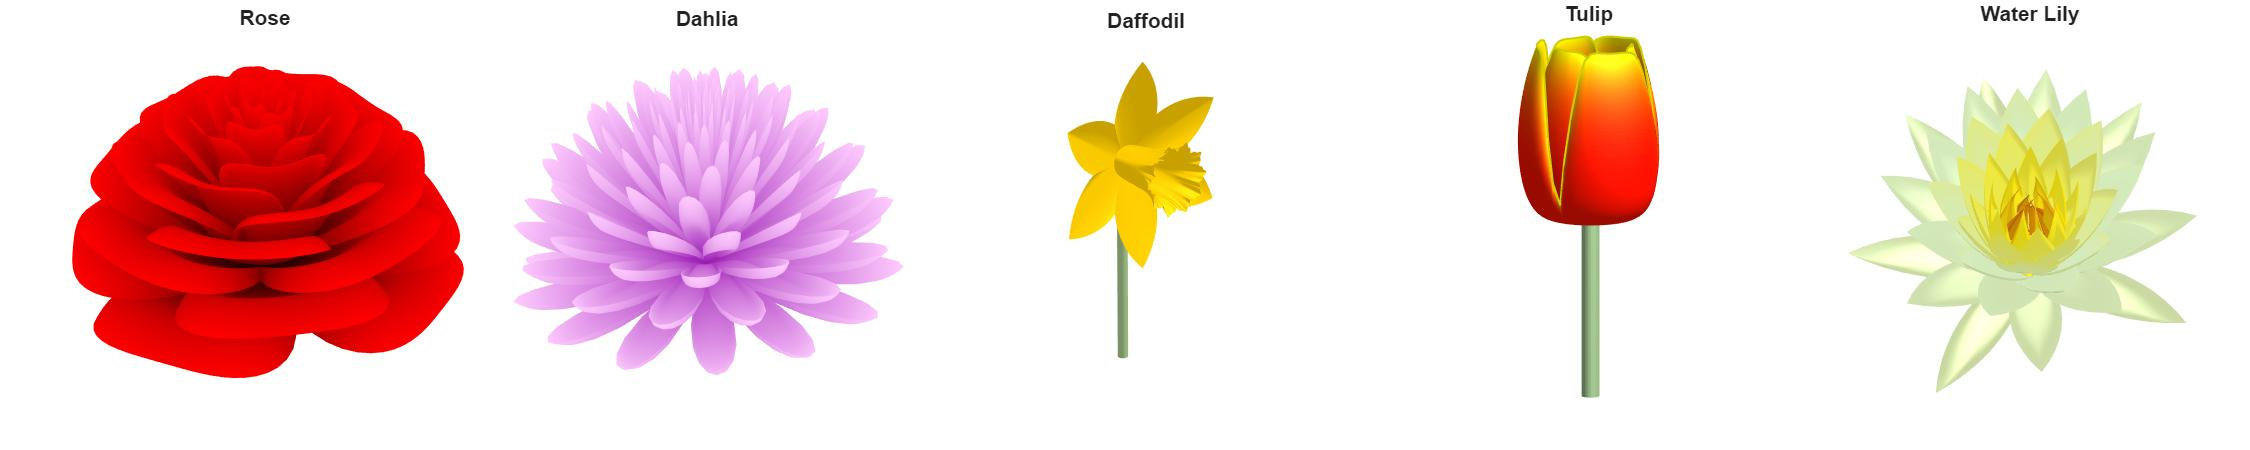
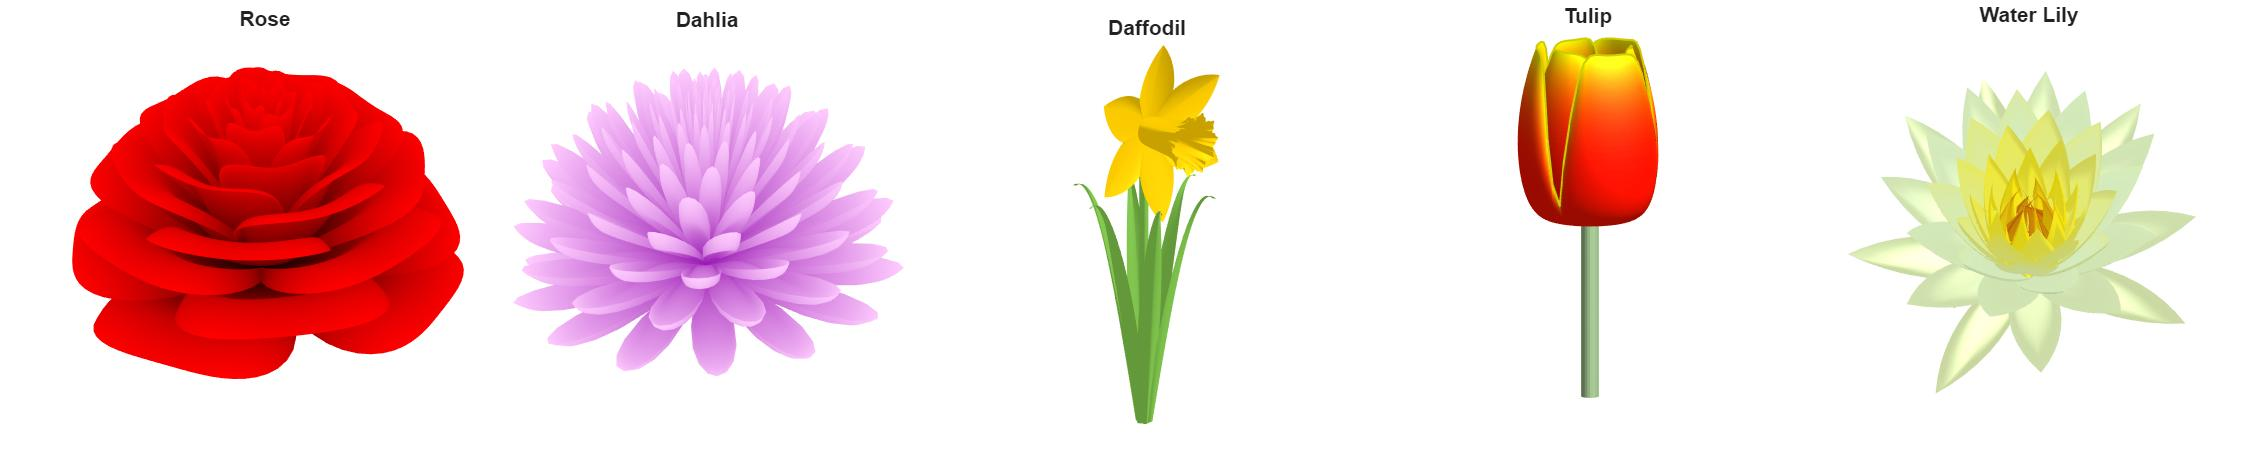
Update Daffodil to include leaves.

diff --git a/flowers/daffodil.m b/flowers/daffodil.m
@@ -1,13 +1,15 @@
-%% Plot an algorithmic daffodil
-
-%% Colors & Sizes
+%% Daffodil Colors & Sizes
 pc = '#faca00'; % petal color
-sc = '#97b580'; % stem color
+sc = '#7cbf4a'; % stem color
 np = 6; % number of petals.
 tr = .23; % Radius of trumpet
 nruf = 10; % number of trumpet ruffles
 sruf = .03; % size of trumpet ruffles
 sr = .05; % radius of the stem
+sh = 3.5; % Height of the stem
+ln = 6; % number of leaves
+lw = .3; % Leaf width
+lh = 2.8; % Height of a leaf
 
 %% Unit circle arrays
 n = np*50+1; % Theta resolution
@@ -32,11 +34,23 @@ surface(TR.*cospi(theta),r*tr*3.2,TR.*sinpi(theta),'FaceColor',pc,'EdgeColor','n
 
 %% Stem
 SR = sr .* ones(nr,1);
-surface(SR.*cospi(theta),SR.*sinpi(theta)-sr,r*-2.*ones(1,n),'FaceColor',sc,'EdgeColor','none');
+surface(SR.*cospi(theta),SR.*sinpi(theta)-sr,r*-sh.*ones(1,n),'FaceColor',sc,'EdgeColor','none');
+
+%% Leaves
+rn = 100; % # verts in radius
+tn = 11; % # verts in theta
+R  = linspace(0,.6,rn)';
+RR = (R*1.2+sr+.05) - abs(linspace(-1,1,tn)*.04);
+T  = linspace(-lw,lw,tn) .* linspace(1,0,rn).^2';
+ll = linspace(0,2,ln+1);
+
+for a=ll(1:end-1) % Leaf positions
+    surface(RR.*cospi(T+a),RR.*sinpi(T+a)-sr,sinpi(R*.9)*lh.*ones(1,tn)-sh,'FaceColor',sc,'EdgeColor','none');
+end
 
 %% Configure Axes & Lighting
 set(gca,'YDir','reverse','Projection','perspective','Visible','off','DataAspectRatio',[1 1 1])
-light('Position',[.5 .5 2],'Color','w');
-lighting g
+light('Position',[1.7 1.7 4],'Color','w');
+lighting gouraud
 material([.8 .9 .2 2 .4])
-view([-40 20]);
+view([-44 20]);

diff --git a/flowers/flower_tiles.m b/flowers/flower_tiles.m
@@ -1,5 +1,8 @@
-function flower_tiles
+function flower_tiles(export)
 % Display the interesting pumpkins in a tiled layout.
+    arguments
+        export=false;
+    end
 
     fig = gcf;
     fig.Position(3:4) = [ 1500 300 ];
@@ -27,6 +30,7 @@ function flower_tiles
     daffodil
     axis off
     title('Daffodil');
+    axis([-1 1 -1 1 -2.7 .6],'off');
     configaxis
 
     nexttile
@@ -38,10 +42,14 @@ function flower_tiles
     nexttile
     waterlily
     title('Water Lily');
-    set(gca,'clipping','off')
     axis([-.7 .7 -.7 .7 0 .8],'off')
     configaxis
 
+    if export
+        F = getframe(gcf);
+        imwrite(F.cdata,'flower_tiles.jpg');
+    end
+    
 end
 
 function configaxis()
@@ -50,7 +58,7 @@ function configaxis()
     io.ZoomSupported = false;
     io.DatatipsSupported = false;
     io.BrushSupported = false;
-    set(gca,'InteractionOptions',io);
-    axtoolbar(gca,{ 'restoreview' });
+    set(gca,'InteractionOptions',io,'Clipping','off');
+    axtoolbar(gca,{ 'restoreview' },'visible','off');
 end
             
